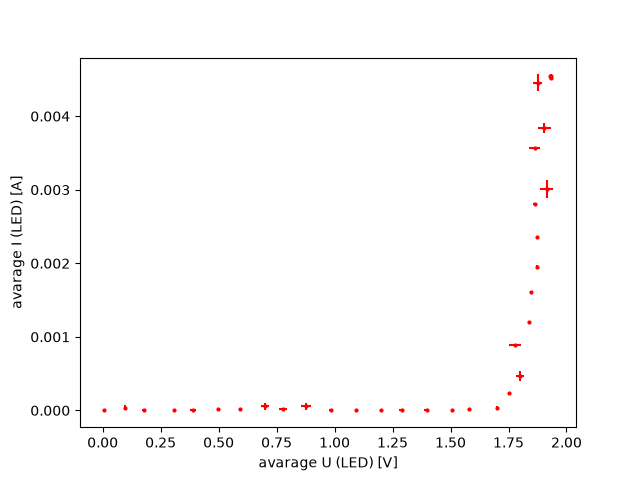
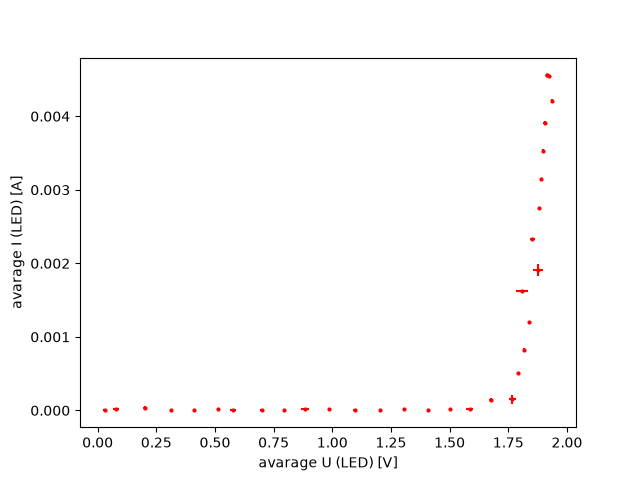
FINAL update (12.11)(12:19)
Ik zal het echt jammer vinden als dit niet deze geen eindversie is.

diff --git a/src/pythondaq/diode_experiment_4.py b/src/pythondaq/diode_experiment_4.py
@@ -44,17 +44,18 @@ class DiodeExperiment:
         list_all_U_ = []
         list_all_I_ = []
 
-        for j in np.arange(0, 3.3, 0.1):  # voltage changes from 0 to maximum value
+        for j in np.arange(0, 3.3, 0.1):  # voltage changes from 0.0 to maximum value (3.3)
             results_U = []
             results_I = []
 
-            for m in range(N_repeat):  # each voltage will be repeated -N_repeat- times
+            # we repeat measurements with this voltage N_repeat times
+            for m in range(N_repeat):  
                 U_LED_, I_LED_ = self.scan(j)
                 results_U.append(U_LED_)  # list with different U LED, vary between different interations
                 results_I.append(I_LED_)  # list with different I LED, vary between different interations
 
-            list_all_U_.append(results_U)  # list containing lists of different U (LED) pet U we try
-            list_all_I_.append(results_I)  # list containing lists of different I (LED) pet U we try
+            list_all_U_.append(results_U)  # list containing lists of different U (LED) per U we try
+            list_all_I_.append(results_I)  # list containing lists of different I (LED) per U we try
 
         f_U = []
         f_I = []
@@ -62,12 +63,15 @@ class DiodeExperiment:
         list_mean_U = []
         list_mean_I = []
 
-        for n in range(0, 33, 1):  # for each voltage we try. We try 34 different voltages (between 0 and 3.3)
+        for n in range(0, 33, 1):  # for each voltage we try. We try 33 different voltages (between 0.0 and 3.3)
+            #we determine mean U (LED) and st.var. per U we used 
             U_mean = np.mean(list_all_U_[n])
             U_f = np.std(list_all_U_[n])
+            
             list_mean_U.append(U_mean)
             f_U.append(U_f)
 
+            #we determine mean I (LED) and st.var. per U we used 
             I_mean = np.mean(list_all_I_[n])
             I_f = np.std(list_all_I_[n])
 

diff --git a/src/pythondaq/arduino_device.py b/src/pythondaq/arduino_device.py
@@ -13,7 +13,7 @@ def list_resources():
 
 
 class ArduinoVISADevice:
-    """_summary_ class which contains different functions
+    """_summary_ class which contains different functions which perform different measurements 
     """
     def __init__(self, port):
         """_summary_ Device indentification. 
@@ -113,44 +113,12 @@ class ArduinoVISADevice:
         voltage = float(raw_) * (3.3 / 1024)
         return voltage
 
-
-#        return the voltage of the input channel (in Volt)
-
-
-# test code
-
 # get available ports
 print(list_resources())
 
-# create an instance for the Arduino on port "ASRL28::INSTR"
-# device = ArduinoVISADevice(port="ASRL28::INSTR")
-device = ArduinoVISADevice(
-    port="ASRL/dev/cu.usbmodem14101::INSTR"
-)  # I use thisone because I/m using mac
+# create an instance for the Arduino on port "ASRL/dev/cu.usbmodem14101::INSTR" (Mac-equivalent to ASRL28::INSTR)
 
-
-# print identification string
-identification = device.get_identification()
-print(identification)
-
-# set OUTPUT voltage on channel 0 in Volt (0 - 3.3 V)
-response = device.set_output_voltage(voltage=3.3)
-print(f"{response=}")
-
-# set OUTPUT voltage on channel 0 in ADC values (0 - 1023)
-device.set_output_value(value=828)
-
-# measure the voltage on INPUT channel 2 in ADC values (0 - 1023)
-ch2_value = device.get_input_value(channel=2)
-print(f"{ch2_value=}")
-
-# measure the voltage on INPUT channel 2 in Volt (0 - 3.3 V)
-ch2_voltage = device.get_input_voltage(channel=2)
-print(f"{ch2_voltage=}")
-
-# get the previously set OUTPUT voltage on channel 0 in ADC values (0 - 1023)
-ch0_value = device.get_output_value()
-print(f"{ch0_value=}")
+device = ArduinoVISADevice(port="ASRL/dev/cu.usbmodem14101::INSTR")  # I use thisone because I/m using mac
 
 # turn of the LED
 device.set_output_voltage(voltage=0)

diff --git a/src/pythondaq/run_experiment.py b/src/pythondaq/run_experiment.py
@@ -27,7 +27,8 @@ def main():
         for U_mean_csv, I_mean_csv, err_U_csv, err_I_csv in zip(list_mean_U, list_mean_I, err_U, err_I):
             writer.writerow([U_mean_csv, err_U_csv, I_mean_csv, err_I_csv])
 
-        # na dit blok sluit Python automatisch het bestand
+
+
     # print identification string
     print(list_resources())
     identification = device.get_identification()
